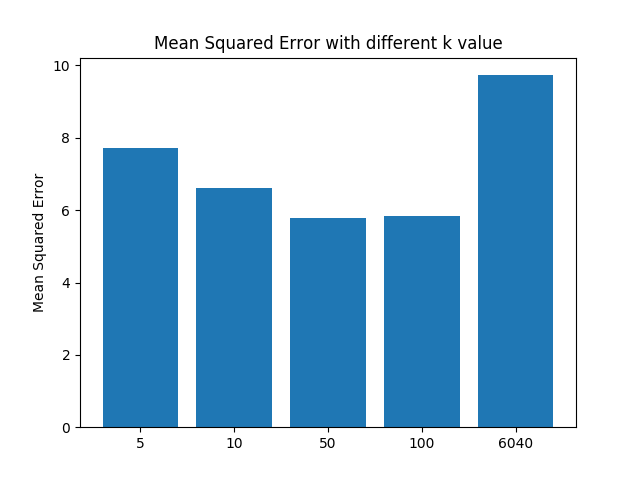
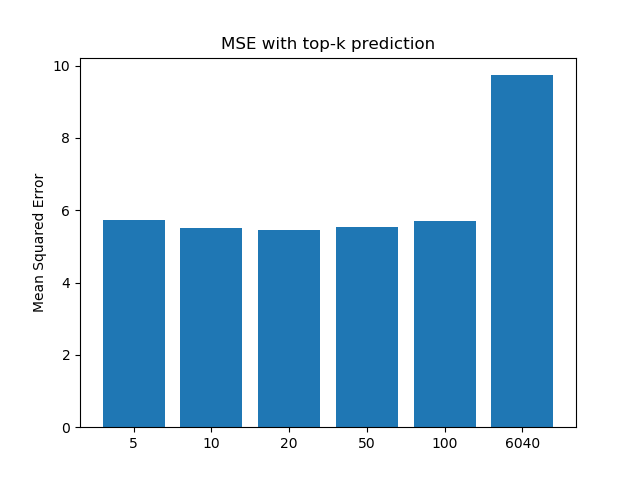
debug, sample input/output

diff --git a/newMain.py b/newMain.py
@@ -108,14 +108,16 @@ if __name__ == '__main__':
 	# Default data position: data/ratings.csv
 	# dataFile = 'data/ratings.csv'
 	dataFile = 'data-1m/ratings.dat'
+	seperater = '::'
 	print("Initializing...")
-	if len(sys.argv) > 1:
+	if len(sys.argv) > 2:
 		# try command line input file as data resource
 		dataFile = sys.argv[1]
+		seperater = sys.argv[2]
 		if not os.path.isfile(dataFile):
 			exit("Input file name Error: Check your argument or use default data file.")
 	header = ["userID", "movieID", "rating", "timestamp"]
-	dataFrame = pd.read_csv(dataFile, skiprows=1, sep='::', names=header, engine='python')
+	dataFrame = pd.read_csv(dataFile, skiprows=1, sep=seperater, names=header, engine='python')
 	print("...Data read success.")
 	np.random.seed(9417) # constant random seed
 
@@ -156,7 +158,7 @@ if __name__ == '__main__':
 	# Part 5
 	# Calculate the mse based on all users.
 	# Calculate the mse based on different percentage of users.
-	# To find the minimum mse, use that number of users to proceed Part 6. 
+	# To find the minimum mse, use that number of users to proceed Part 6.
 	print("Run MSE calculation based on all users? (Y/N) (Might take up few seconds.)")
 	run_confirm = sys.stdin.readline()
 	if run_confirm == "Y\n" or run_confirm == "y\n":
@@ -195,11 +197,9 @@ if __name__ == '__main__':
 		except:
 			exit(f"Invalid UserID. UserID should be an integer within [1, {nUsers}].")
 		print(f"UserID: {target_user}")
-		top10_id = recommand_k(target_user, 10, 50, recSimMatrix, ratingMatrix)
+		top10_id = recommand_k(target_user, 10, 20, recSimMatrix, ratingMatrix)
 		movie_matrix = movieID_matrix_correction(nMovies)
 		print(f"{target_user}'s top 10 predicted movies are:")
 		print(movie_id_to_name(top10_id, movie_matrix))
 		print()
 		print("Input next UserID you want to predict, or other characters to exit.")
-
-
